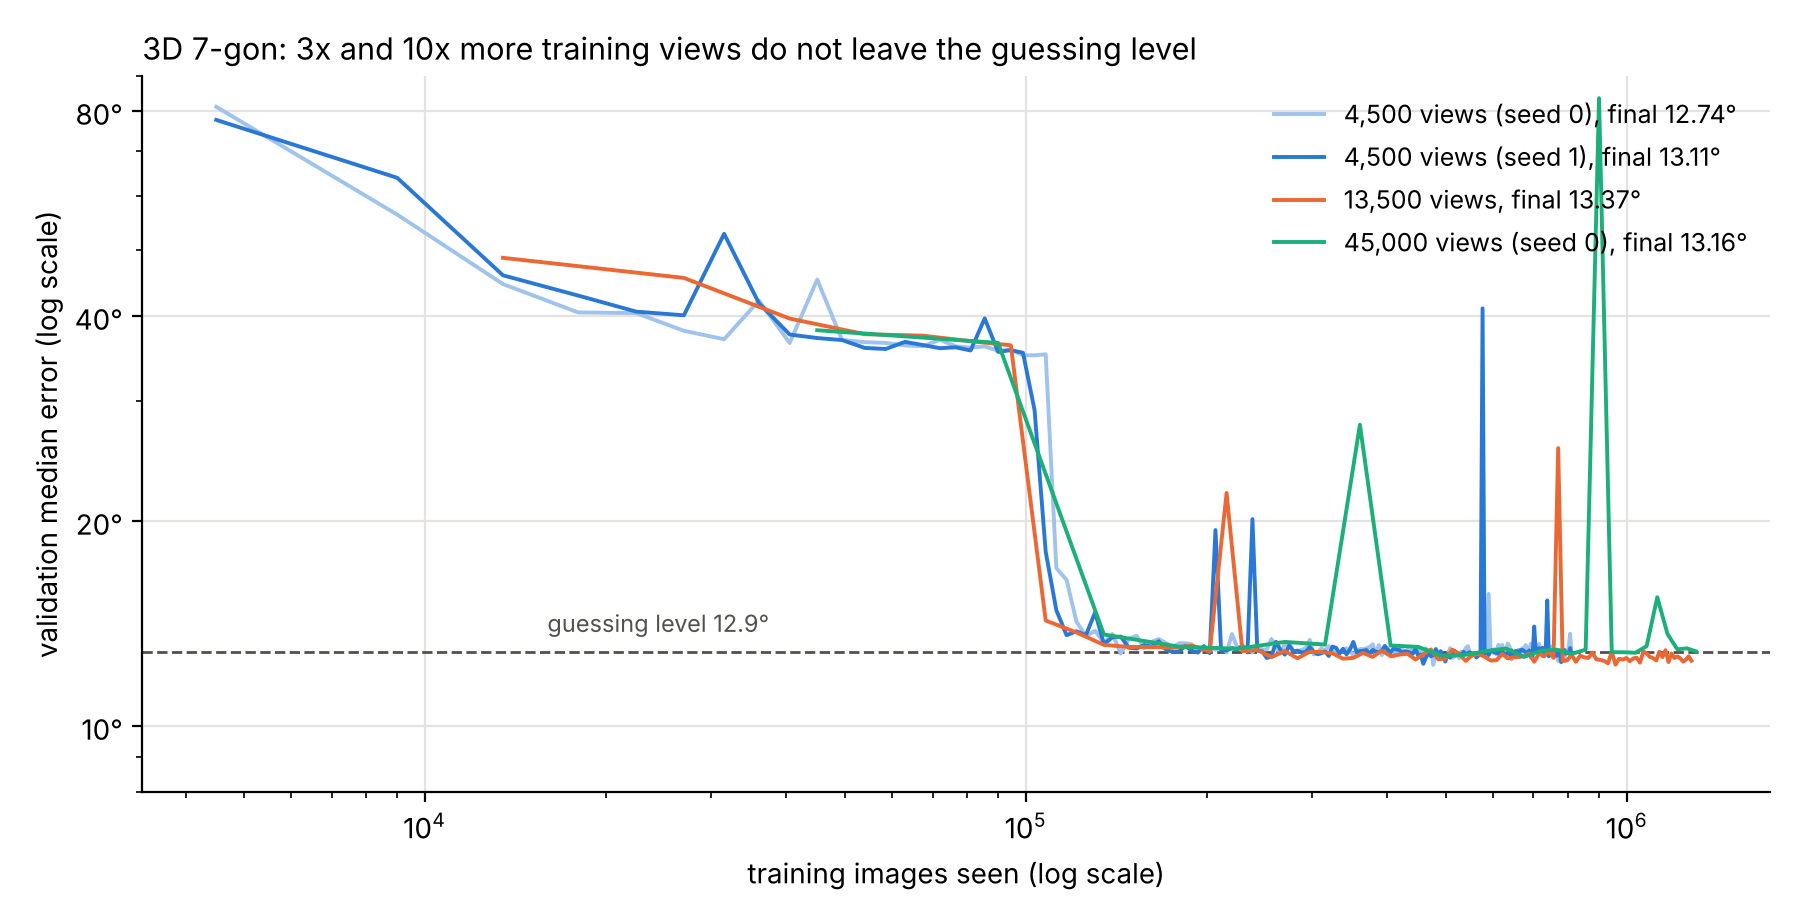
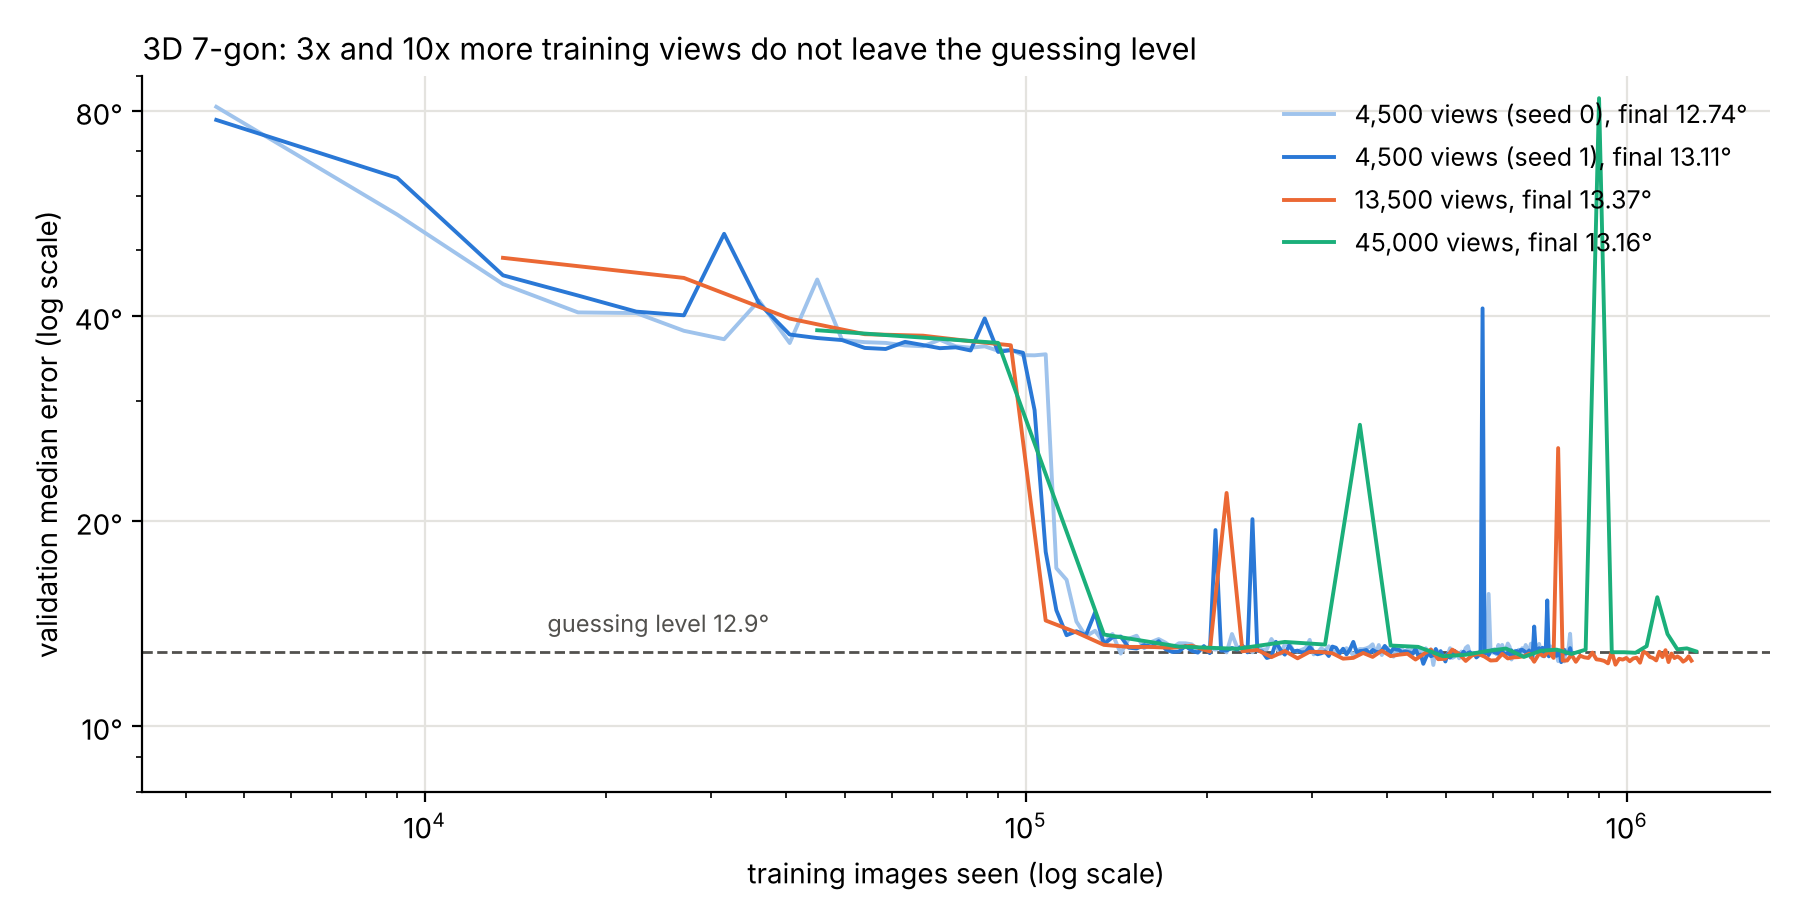
3D 7-gon data scaling: 13.5k and 45k views stay at the guessing level (13.37 / 13.16 deg)
Claude-Session: https://claude.ai/code/session_01CjS2ebrnSKXBxxPg7a3mE2

Changed region(s): [[0.7467, 0.0913, 0.9644, 0.2739]]

diff --git a/pose3d/probes/cosdir_interp/plot_chile3d_datascale.py b/pose3d/probes/cosdir_interp/plot_chile3d_datascale.py
@@ -9,7 +9,7 @@ fig, ax = plt.subplots(figsize=(9, 4.6))
 ax.axhline(90 / 7, color="#52514e", ls="--", lw=1); ax.text(1.6e4, 90 / 7 * 1.07, "guessing level 12.9°", fontsize=8.5, color="#52514e")
 for k, c in (("n4500_seed0", "#9fc3ec"), ("n4500_seed1", "#2a78d6"), ("n13500", "#eb6834"), ("n45000", "#1baf7a")):
     r = R[k]; x = [(i + 1) * r["n"] for i in range(len(r["mre"]))]
-    lab = f"{r['n']:,} views" + (" (seed 1)" if k.endswith("seed1") else " (seed 0)" if k.startswith("n4500") else "") + f", final {r['final']:.2f}°"
+    lab = f"{r['n']:,} views" + (" (seed 1)" if k.endswith("seed1") else " (seed 0)" if r["n"] == 4500 else "") + f", final {r['final']:.2f}°"
     ax.plot(x, r["mre"], color=c, lw=1.4, label=lab)
 ax.set_xscale("log"); ax.set_yscale("log"); ax.set_ylim(8, 90); ax.set_yticks([10, 20, 40, 80])
 ax.yaxis.set_major_formatter(mt.FuncFormatter(lambda v, _: f"{v:g}°")); ax.yaxis.set_minor_formatter(mt.NullFormatter())

diff --git a/pose3d/reports/cosdir_bottom_view.md b/pose3d/reports/cosdir_bottom_view.md
@@ -679,6 +679,28 @@ the runs leaves the guessing level afterwards. Ten times more distinct views cha
 too little data is not the explanation, at least up to 45k views and 1.3M images seen. What is left untested: much
 longer training (the strongest SYMSOL models see about 100M images) and more than 45k views.
 
+## More training views (3x and 10x): still the guessing level
+
+Question (requested 2026-11-25): is the 3D 7-gon failure a data problem? SYMSOL methods train on 45k-100k views per
+shape, and our 4,500 is below the smallest setting any of those papers reports (`reports/chile3d_literature.md`). Same
+recipe (ImageNet ResNet-50, 14x14 map, s_h 100, constant learning rate, seed 0), with 13,500 and 45,000 training
+views and about 20,000 optimizer steps each (1.6x the steps of the 4,500-view runs), on 4xL4
+(`notebooks/make_chile3d_datascale.py`).
+
+| training views | steps | images seen | final 32-sample median | acc@15 |
+|---|---|---|---|---|
+| 4,500 (2 seeds) | 12,650 | 0.81M | 12.74 / 13.11 | 0.60 / 0.58 |
+| 13,500 | 20,040 | 1.28M | 13.37 | 0.566 |
+| 45,000 | 20,390 | 1.31M | 13.16 | 0.579 |
+
+![data scaling](figures/cosdir_chile3d_datascale.png)
+
+Against the number of training images seen, the four curves lie on top of each other. The first drop (from about 38
+degrees to the guessing level, i.e. the axis learned) comes after about 100k images whatever the dataset size, and
+none of the runs leaves the guessing level afterwards. Ten times more distinct views changes nothing within this
+budget, so too little data is not the explanation, at least up to 45k views and 1.3M images seen. Two things remain
+untested: much longer training (the strongest SYMSOL models see about 100M images) and more than 45k views.
+
 ## Conclusion
 
 * **Square and pentagon**: a training-schedule failure. Learning proceeds in steps separated by plateaus. The

diff --git a/pose3d/reports/cosdir_summary.md b/pose3d/reports/cosdir_summary.md
@@ -77,6 +77,8 @@ resolve the turn guesses and has median error about 90/n degrees (the "guessing 
   for near-bottom views in CPU read-outs): also at the guessing level, 13.31 degrees.
 * **More training views for the 3D 7-gon** (13,500 and 45,000 instead of 4,500; ~20k steps each): guessing level
   (13.37 and 13.16 degrees); against images seen the curves coincide (`figures/cosdir_chile3d_datascale.png`).
+* **More training views for the 3D 7-gon** (13,500 and 45,000 instead of 4,500; ~20k steps each): guessing level
+  (13.37 and 13.16 degrees); against images seen the curves coincide (`figures/cosdir_chile3d_datascale.png`).
 * Not explained: why identical runs break through at such different epochs (the toy model's seeds agree).
 
 ## Bugs fixed along the way
